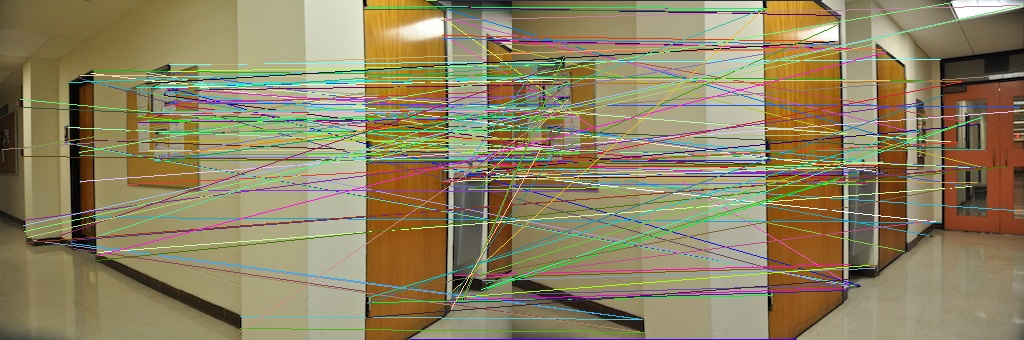
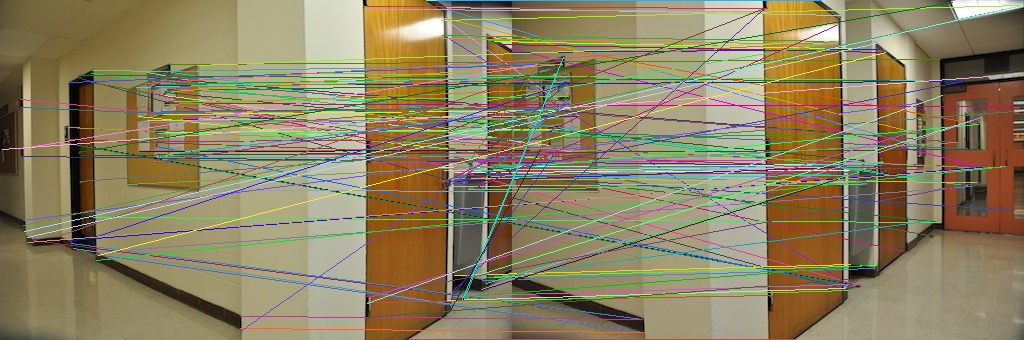
finished extra credit

Changed region(s): [[0.0, 0.0, 1.0, 1.0], [0.9062, 0.0588, 0.9375, 0.0882], [0.8438, 0.7059, 0.875, 0.7353]]

diff --git a/pano.py b/pano.py
@@ -28,7 +28,7 @@ class Panorama:
         files = [
             os.path.join(path, f)
             for f in sorted(os.listdir(path))
-            if f.endswith(".JPG")
+            # if f.endswith(".JPG")
         ]
         return np.array([cv2.imread(f) for f in files]), np.array(
             [cv2.imread(f, 0) for f in files]
@@ -288,6 +288,97 @@ class Panorama:
         _, final = stitcher.stitch((copy1, copy2))
         return final
 
+    def embed_image(self, embed_image: np.ndarray, base_image: np.ndarray):
+        """Embeds an image into a given base image.
+
+        Args:
+            embed_image (np.ndarray): The image being embedded in the base image.
+            base_image (np.ndarray): The base image being embedded into.
+        Returns:
+            composite_image (np.ndarray): The resulting composite image containing the embed.
+        """
+        # Create a copy of the base image
+        base_image = base_image.copy()
+
+        # Get the desired region to embed image on reom mouse events.
+        region = self.get_user_region(base_image)
+        region = np.asarray(region)
+
+        base_width, base_height, _ = base_image.shape
+        embed_width, embed_height, _ = embed_image.shape
+
+        # Clockwise starting from top left corner
+        embed_image_corners = np.array([(0, 0), (embed_width, 0), (embed_width, embed_height), (0, embed_height)])
+        
+        # Calculate homography matrix
+        H = self.homography(embed_image_corners, region)
+
+        # Warp the image into the user selected region using the homography matrix
+        embed_image_isolated = cv2.warpPerspective(embed_image, H, (base_height, base_width))
+
+        # Create a mask of the user selected region
+        fill_mask = np.zeros(base_image.shape).astype("uint8")
+        cv2.fillConvexPoly(fill_mask, region, (255, 255, 255))
+
+        # Apply mask of user selected region to the base image
+        base_image_with_region = cv2.bitwise_and(base_image, cv2.bitwise_not(fill_mask))
+
+        # Add the base image and the isolated embed image
+        composite_image = base_image_with_region + embed_image_isolated
+        
+        return composite_image
+
+    def mouse_callback(self, event: int, x: int, y: int, flags: int, param: dict):
+        """Callback function for mouse events used when obtaining the user selected region for embedding an image.
+
+        Args:
+            event (int): The type of mouse click event.
+            x (int): The x pixel coordinate of the mouse in base image.
+            y (int): The y pixel coordinate of the mouse in base image.
+            flags (int): Event flags.
+            param (dict): Any parameters that are passed in.
+        """
+
+        # Handle when the mouse is clicked
+        if event == cv2.EVENT_LBUTTONDOWN:
+            # Get image and corners by reference\
+            base_image = param["image"]
+            corners = param["corners"]
+            corners.append([x, y])
+            # Draw square centered around click
+            p = 5
+            start_point = (x - p, y - p) # Top left corner
+            end_point = (x + p, y + p) # Bottom right corner
+            color = (0, 0, 255)
+            thickness = 2
+            cv2.rectangle(base_image, start_point, end_point, color, thickness)
+
+    def get_user_region(self, base_image: np.ndarray):
+        """Get the corners of the region to embed the image into from the user using mouse click on the base image.
+
+        Args:
+            base_image (np.ndarray): The base image being embedded onto.
+        Returns:
+            corners (list): the pixel coordinates of the corners of the user selected region in the form [(x, y)]
+        """
+        corners = []
+        param = {
+            "image": base_image,
+            "corners": corners,
+        }
+
+        window_name = "Embed Image"
+        cv2.imshow(window_name, base_image)
+        cv2.setMouseCallback(window_name, self.mouse_callback, param)
+
+        while True:
+            cv2.imshow(window_name, base_image)
+            if cv2.waitKey(1) & 0xFF == ord("q") or len(corners) == 4:
+                cv2.destroyWindow(window_name)
+                break
+
+        return corners
+
     def draw_lines(
         self, image1: np.ndarray, image2: np.ndarray, points: dict, col1: tuple = None
     ) -> None:
@@ -353,10 +444,11 @@ class Panorama:
             cv2.imwrite(f"results/{fname}.jpg", image)
 
 
+
 def main():
+    # The directory to use two images from to create a mosaic
     DIR = "DanaHallWay1"
     # DIR = "DanaOffice"
-
     pano = Panorama(DIR)
 
     # Load images
@@ -367,10 +459,6 @@ def main():
     # Apply Harris corner detector
     corners1 = pano.harris_corner_detector(gray1)
     corners2 = pano.harris_corner_detector(gray2)
-
-    # samples = 600
-    # corners1 = choices(corners1, k=samples)
-    # corners2 = choices(corners2, k=samples)
 
     # Find correspondences using NCC
     correspondences = pano.normalized_cross_correlation(
@@ -383,12 +471,14 @@ def main():
     # Warp images
     output = pano.create_panorama(image1, image2, H)
 
-    # Display results
+    # Create visualiations of results
     corners1_vis = pano.draw_corners(image1, corners1)
     corners2_vis = pano.draw_corners(image2, corners2)
     correspondences_vis = pano.draw_lines(image1, image2, correspondences)
     inliers_vis = pano.draw_lines(image1, image2, inliers)
     outliers_vis = pano.draw_lines(image1, image2, outliers)
+
+    # Display results
     print(H)
     pano.show_image(
         [
@@ -438,5 +528,29 @@ def main():
     )
 
 
+def extra_credit():
+    # The directory to pull an image from to use as the base image
+    DIR = "DanaHallWay1"
+    # DIR = "DanaOffice"
+
+    pano = Panorama(DIR)
+
+    # Load images
+    col, _ = pano.load_images(DIR)
+    embed_images, _ = pano.load_images("ec")
+
+    embed_image = embed_images[0]
+    base_image = col[0]
+
+    # Warp an image into a region in the second image
+    output = pano.embed_image(embed_image, base_image)
+
+    # Display results
+    pano.show_image([output], ["ExtraCredit_output"])
+
+    # Save Results
+    pano.save_image([output], ["ExtraCredit_output"])
+
 if __name__ == "__main__":
     main()
+    extra_credit()
